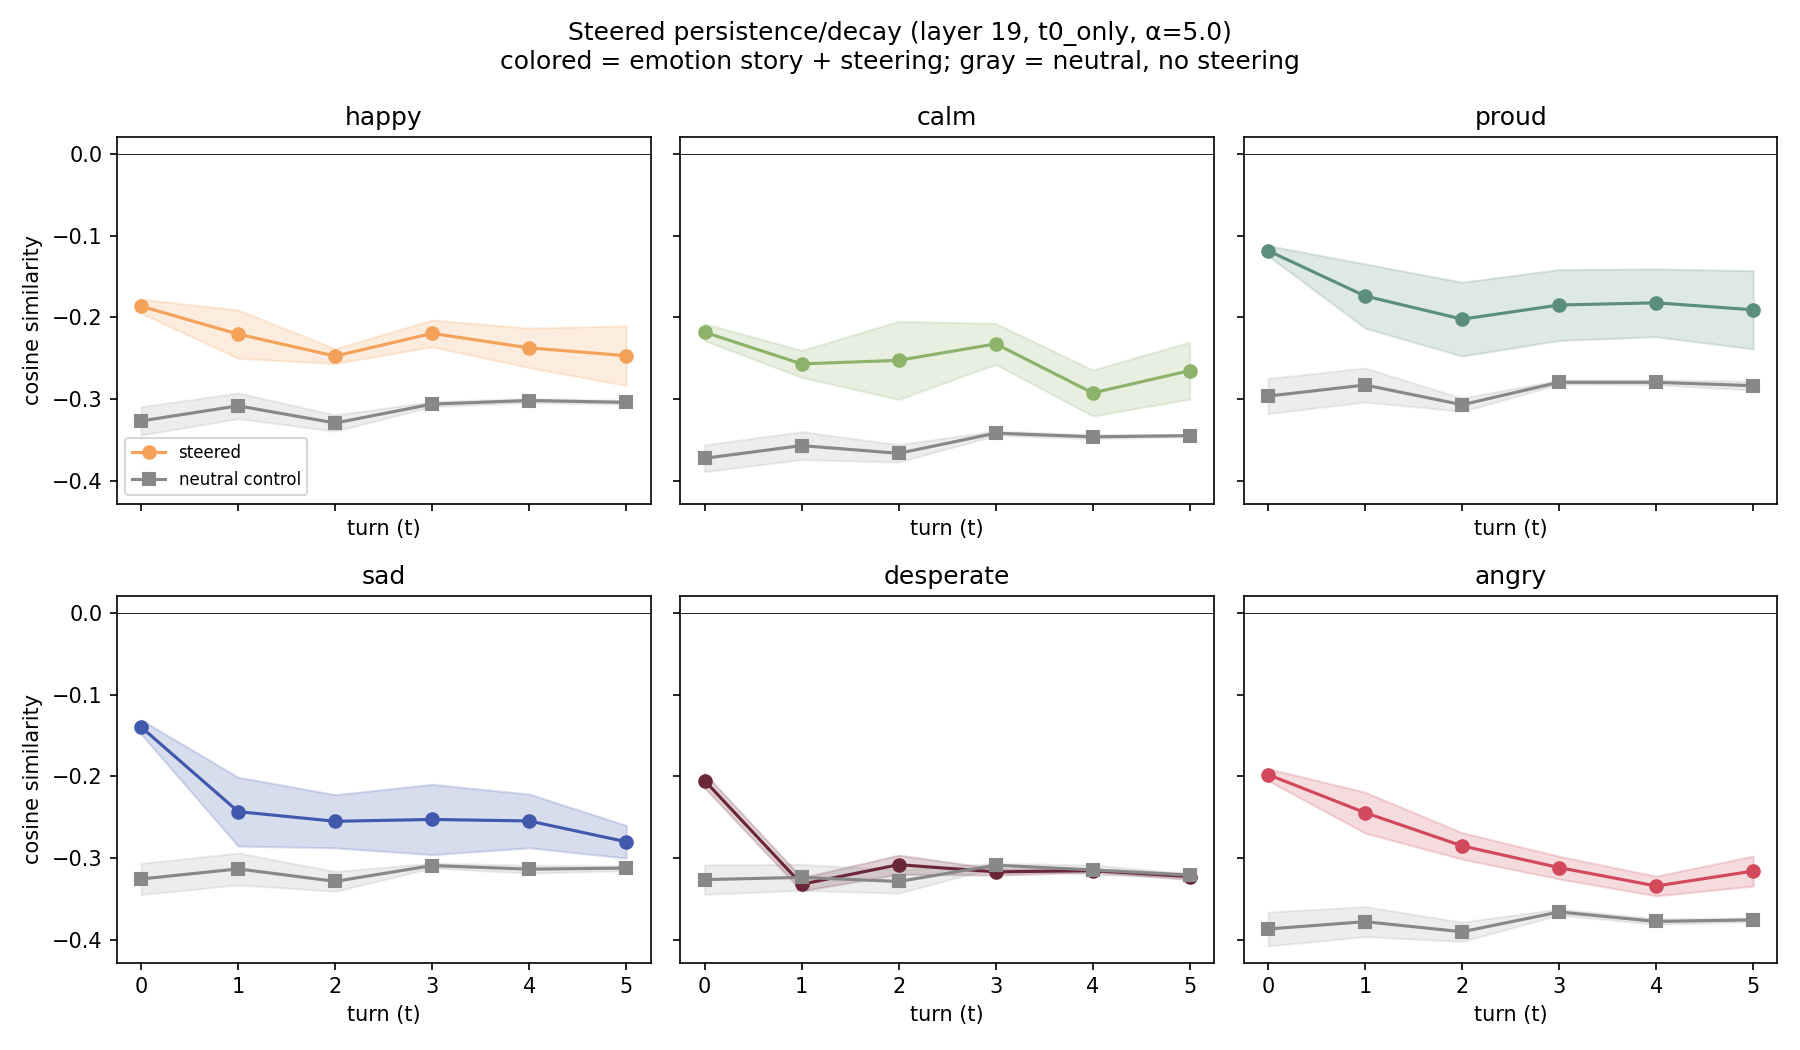
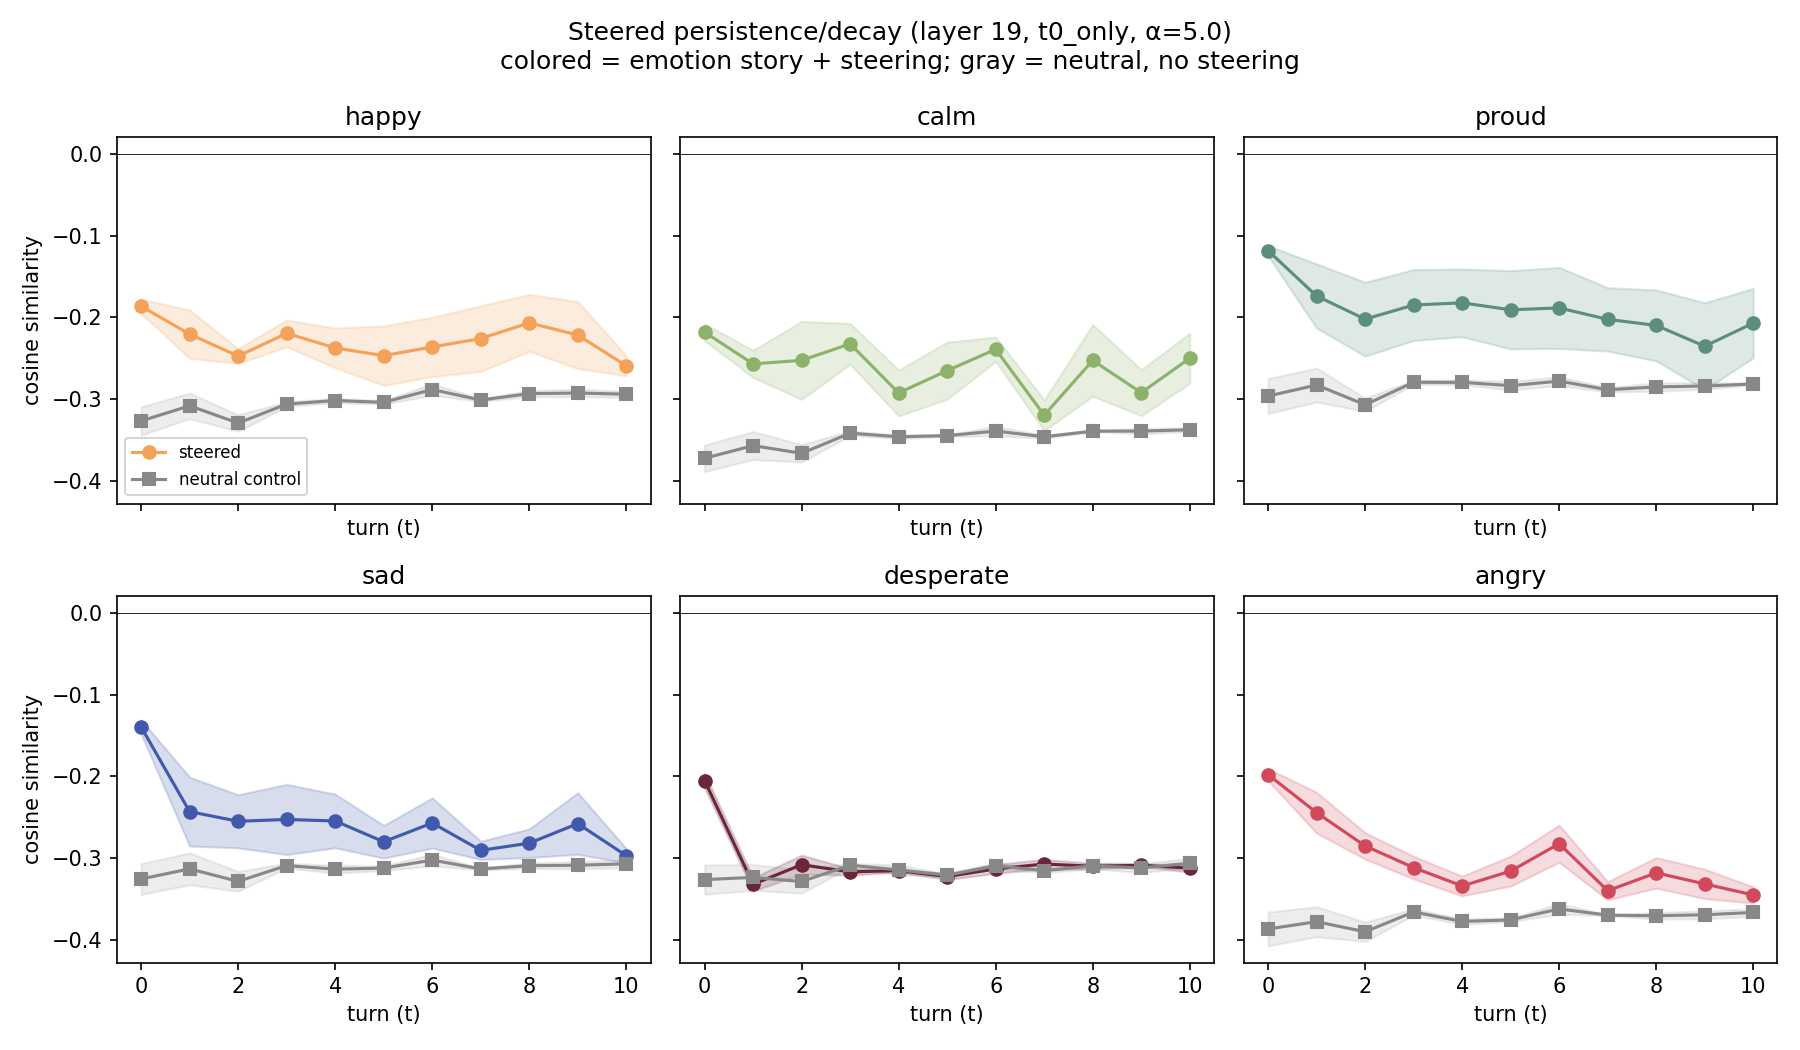
Extend decay experiments from 5 to 10 neutral fillers (t=0..10).
Adds longer filler schedule, updates docs/budget estimates, and refreshes steered t0-only results.

diff --git a/00_sanity_check.py b/00_sanity_check.py
@@ -57,8 +57,8 @@ def main():
     print("=" * 60)
     print(f"Per-turn budget estimate for the decay experiment "
           f"(30-token responses): ~{gen_time:.1f}s per generation")
-    print(f"6 emotions x ~5 measurement turns x 3 repeats = 90 generations "
-          f"-> ~{90*gen_time/60:.1f} min total compute")
+    print(f"6 emotions x ~11 measurement turns x 3 repeats = 198 generations "
+          f"-> ~{198*gen_time/60:.1f} min total compute")
     print("=" * 60)
     if gen_time > 8:
         print("That's slower than ideal for a 5-hour budget - consider "

diff --git a/06_full_decay_experiment.py b/06_full_decay_experiment.py
@@ -4,7 +4,7 @@ with 3 repeat stories (spread across different topics), and save every
 turn's measurement to CSV.
 
 21 conversations total (6 emotions x 3 repeats + 3 neutral control stories),
-6 measurement turns each = 126 generations. The neutral control conversations
+11 measurement turns each = 231 generations. The neutral control conversations
 are each measured against ALL 6 emotion vectors (cheap - it's just extra
 cache passes, not extra generation), so every emotion gets a matched
 "nothing was induced" reference curve built from the exact same fillers/seed.

diff --git a/08_steered_decay_experiment.py b/08_steered_decay_experiment.py
@@ -4,7 +4,7 @@ emotion conditions ADD the emotion vector into the residual stream during
 generation (CAA-style), instead of relying on the story prompt alone.
 
 Two steering schedules (set STEER_MODE):
-  - "every_turn":  hook on for every model.generate call (t=0..5)
+  - "every_turn":  hook on for every model.generate call (t=0..10)
   - "t0_only":     hook on only for the first response; later turns unsteered
                    (asks whether a strong steered kick persists under fillers)
 

diff --git a/05_pilot_decay.py b/05_pilot_decay.py
@@ -9,7 +9,7 @@ Protocol per conversation:
     Turn 3: model response                       <- measurement t=1
     Turn 4: fixed neutral filler #2
     Turn 5: model response                       <- measurement t=2
-    ... through all 5 fillers -> 6 measurement points (t=0..5)
+    ... through all 10 fillers -> 11 measurement points (t=0..10)
 
 Everything stays in TOKEN space throughout (never round-trips through
 strings) to avoid retokenization mismatches at the story/filler/response
